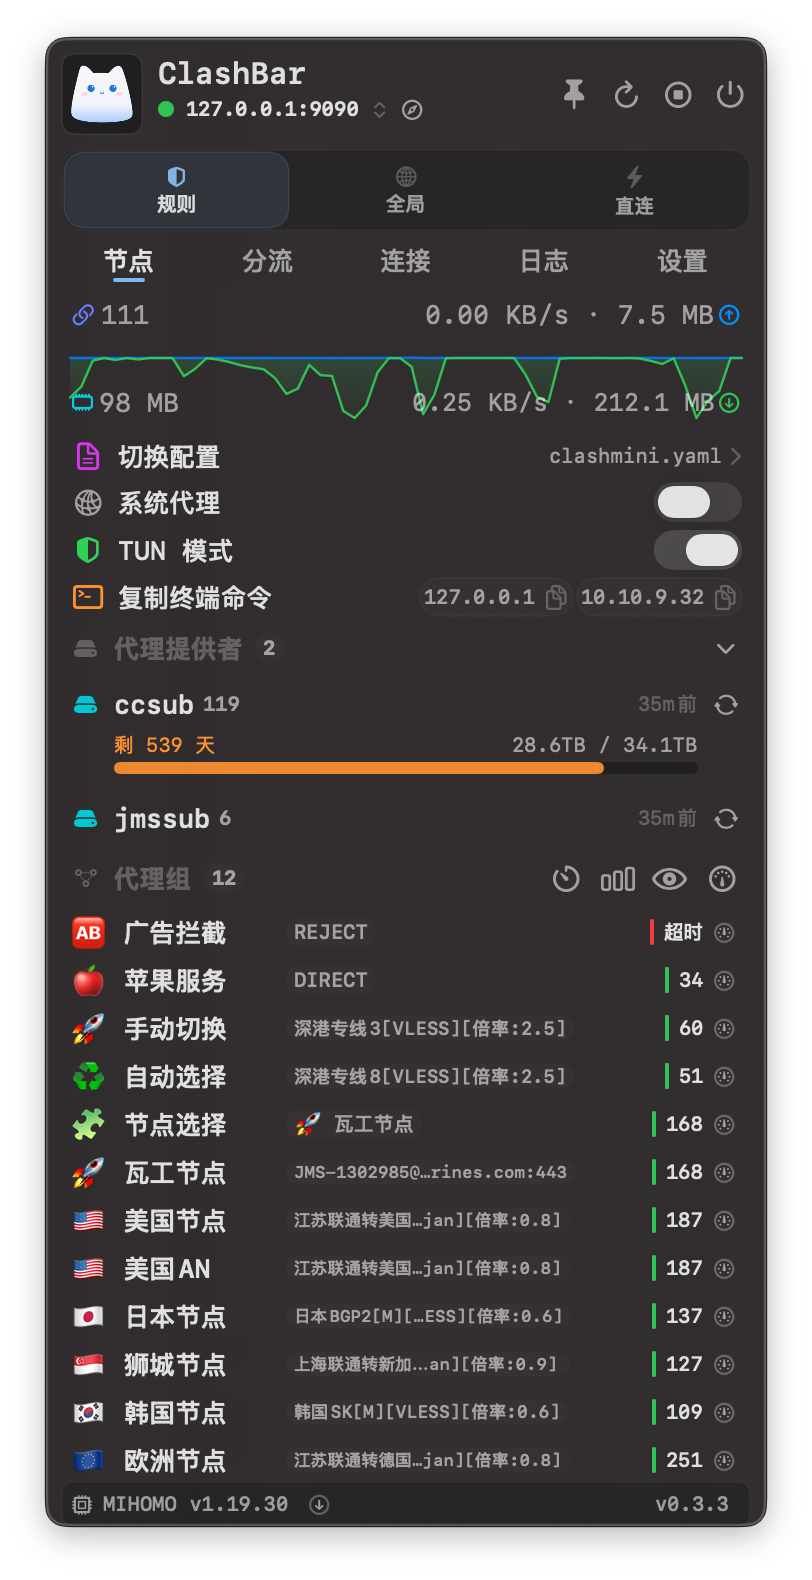
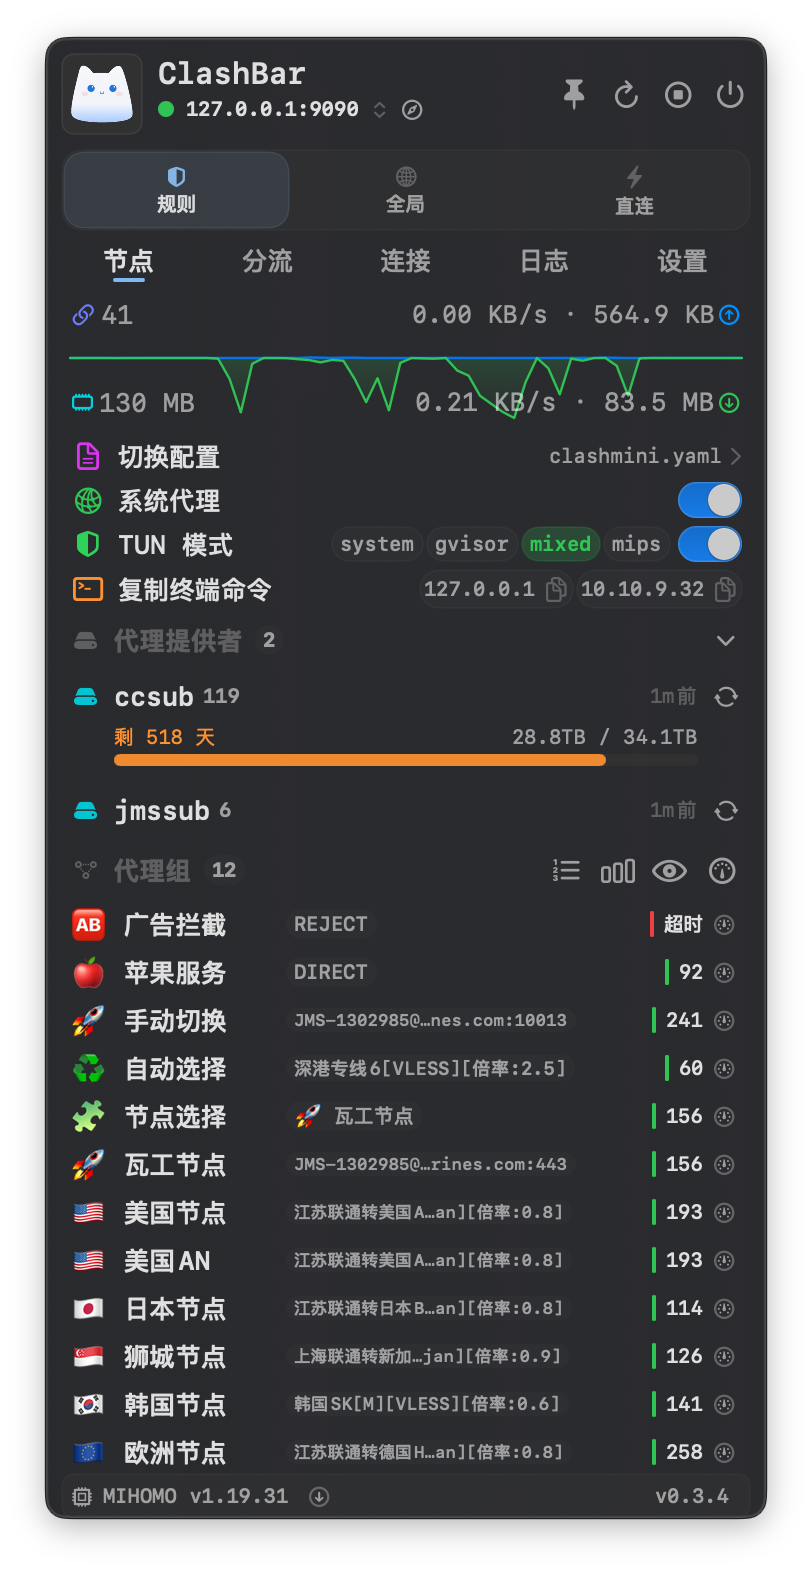
✨ feat: 更新 README，感谢 Linux DO 社区支持；优化图标处理脚本

diff --git a/README.md b/README.md
@@ -144,6 +144,7 @@ make dist WITH_CORE=1      # app + dmg
 ## 🙏 致谢
 
 感谢 [MetaCubeX/mihomo](https://github.com/MetaCubeX/mihomo) 提供内核能力。
+感谢 [Linux DO](https://linux.do/) 社区的支持与帮助 🙏
 
 ## ⭐ Star 趋势
 
